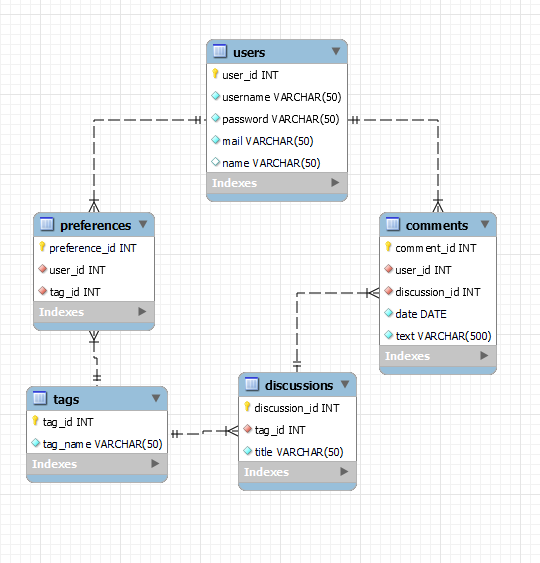
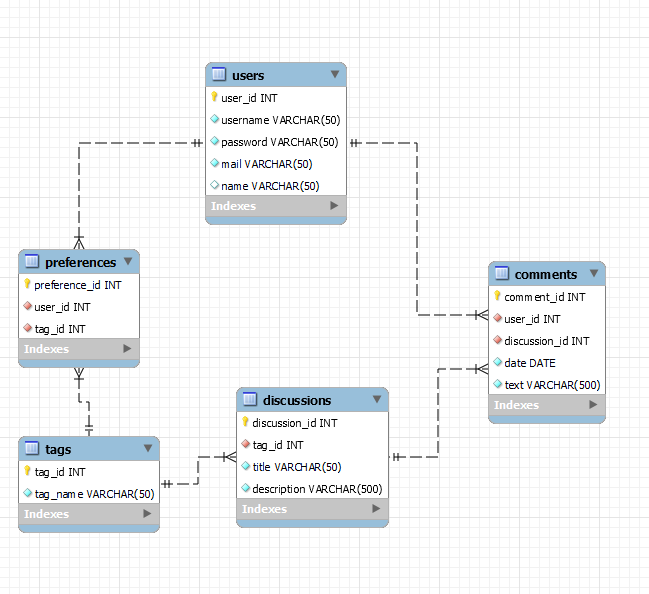
Dummy Data + New Route + New column

diff --git a/backend/app.py b/backend/app.py
@@ -40,6 +40,7 @@ class Discussion(db.Model):
     discussion_id = db.Column(db.Integer, primary_key=True)
     tag_id = db.Column(db.Integer, db.ForeignKey('tags.tag_id'), nullable=False)
     title = db.Column(db.String(50), nullable=False)
+    description = db.Column(db.String(500), nullable=False)
 
 class Comments(db.Model):
     comment_id = db.Column(db.Integer, primary_key=True)
@@ -87,9 +88,22 @@ def home():
         result.append(tag_data)
     return jsonify({'message': result})
 
+@app.route("/discussions/<tag_id>", methods=['GET'])
+def get_discussionlist_by_tag(tag_id):
+    discussions = Discussion.query.filter_by(tag_id=tag_id).all()
+    result = []
+    for discussion in discussions:
+        discussion_data = {}
+        discussion_data['discussion_id'] = discussion.discussion_id
+        discussion_data['tag_id'] = discussion.tag_id
+        discussion_data['title'] = discussion.title
+        discussion_data['description'] = discussion.description
+        result.append(discussion_data)
+    return jsonify({'message': result})
+
 @app.route("/discussion/<discussion_id>", methods=['GET'])
 #@token_required
-def get_discussion(discussion_id):
+def get_discussion_by_id(discussion_id):
     discussion = Discussion.query.filter_by(discussion_id=discussion_id).first()
     if not discussion:
         return jsonify({'message': 'discussion does not exist'})
@@ -97,7 +111,7 @@ def get_discussion(discussion_id):
     result['discussion_id'] = discussion.discussion_id
     result['tag_id'] = discussion.tag_id
     result['title'] = discussion.title
-
+    result['description'] = discussion.description
     return jsonify({'discussion': result})
 
 if __name__ == '__main__':
